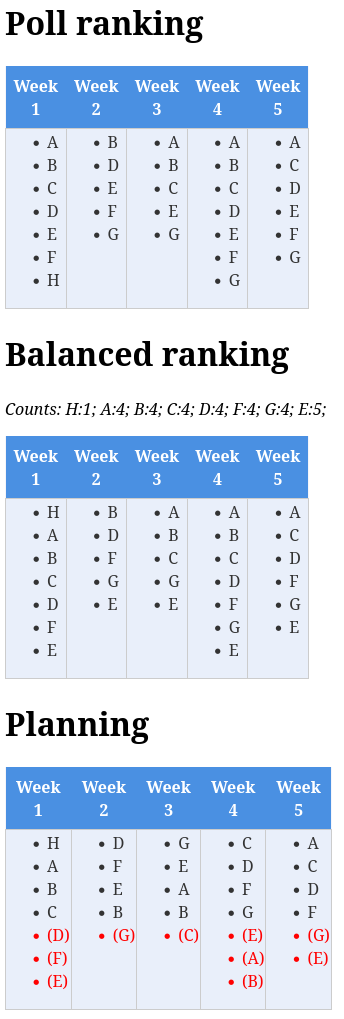
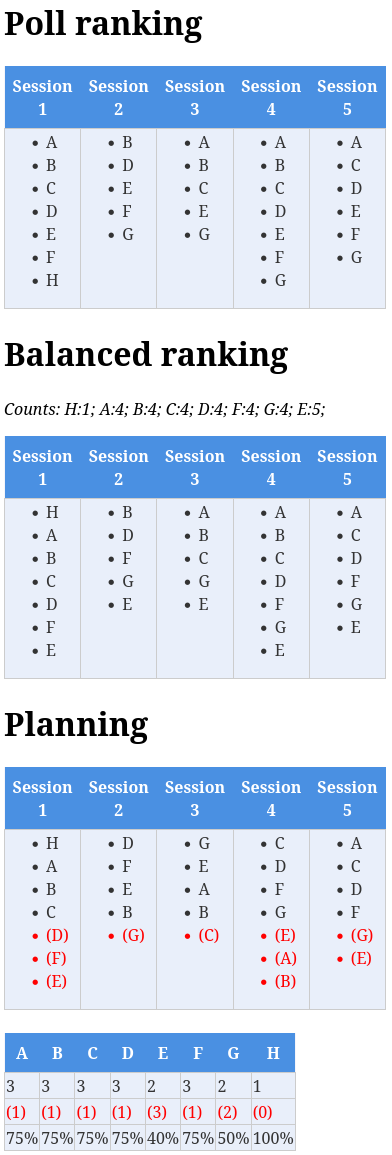
[Optimizer] Collect metrics to evaluate a planning proposal

diff --git a/files/out/planning.html b/files/out/planning.html
@@ -42,5 +42,42 @@
 <td><ul><li>G</li><li>E</li><li>A</li><li>B</li><li class="substitute">(C)</li></ul></td>
 <td><ul><li>C</li><li>D</li><li>F</li><li>G</li><li class="substitute">(E)</li><li class="substitute">(A)</li><li class="substitute">(B)</li></ul></td>
 <td><ul><li>A</li><li>C</li><li>D</li><li>F</li><li class="substitute">(G)</li><li class="substitute">(E)</li></ul></td>
-</tr></table></body>
+</tr></table><br><table><tr>
+<th>A</th>
+<th>B</th>
+<th>C</th>
+<th>D</th>
+<th>E</th>
+<th>F</th>
+<th>G</th>
+<th>H</th>
+</tr><tr>
+<td>3</td>
+<td>3</td>
+<td>3</td>
+<td>3</td>
+<td>2</td>
+<td>3</td>
+<td>2</td>
+<td>1</td>
+</tr><tr>
+<td class="substitute">(1)</td>
+<td class="substitute">(1)</td>
+<td class="substitute">(1)</td>
+<td class="substitute">(1)</td>
+<td class="substitute">(3)</td>
+<td class="substitute">(1)</td>
+<td class="substitute">(2)</td>
+<td class="substitute">(0)</td>
+</tr><tr>
+<td>75%</td>
+<td>75%</td>
+<td>75%</td>
+<td>75%</td>
+<td>40%</td>
+<td>75%</td>
+<td>50%</td>
+<td>100%</td>
+</tr></table>
+</body>
 </html>

diff --git a/app/src/main/java/org/llschall/padel/PlanningWriter.java b/app/src/main/java/org/llschall/padel/PlanningWriter.java
@@ -5,6 +5,7 @@ import java.io.StringWriter;
 import java.nio.file.Files;
 import java.nio.file.Path;
 import java.nio.file.Paths;
+import java.util.ArrayList;
 import java.util.List;
 
 public class PlanningWriter {
@@ -41,6 +42,31 @@ public class PlanningWriter {
 
         writer.append("<h1>Planning</h1>\n");
         writer.append(createHtml(optimized));
+
+        writer.append("<br>");
+        writer.append("<table><tr>\n");
+        Rater rater = new Rater(optimized);
+        ArrayList<Player> list = new ArrayList<>(rater.map.keySet());
+        for (Player player : list) {
+            writer.write("<th>" + player.name + "</th>\n");
+        }
+        writer.append("</tr><tr>\n");
+        for (Player player : list) {
+            Rating rating = rater.map.get(player);
+            writer.write("<td>" + rating.slot + "</td>\n");
+        }
+        writer.append("</tr><tr>\n");
+        for (Player player : list) {
+            Rating rating = rater.map.get(player);
+            writer.write("<td class=\"substitute\">(" + rating.substitute + ")</td>\n");
+        }
+        writer.append("</tr><tr>\n");
+        for (Player player : list) {
+            Rating rating = rater.map.get(player);
+            writer.write("<td>" + rating.getRating() + "%</td>\n");
+        }
+
+        writer.append("</tr></table>\n");
 
         writer.append("</body>\n");
         writer.append("</html>");

diff --git a/app/src/main/java/org/llschall/padel/Rater.java b/app/src/main/java/org/llschall/padel/Rater.java
@@ -1,0 +1,47 @@
+package org.llschall.padel;
+
+import java.util.HashMap;
+import java.util.List;
+import java.util.Map;
+
+class Rater {
+
+    final List<Session> sessions;
+    final Map<Player, Rating> map = new HashMap<>();
+
+    Rater(List<Session> sessions) {
+        this.sessions = sessions;
+
+        for (Session session : sessions) {
+            for (Slot slot : session.slots) {
+                Player player = slot.player;
+                if (!map.containsKey(player)) {
+                    map.put(player, new Rating());
+                }
+                Rating rating = map.get(player);
+                if (slot.isSubstitute) {
+                    rating.substitute++;
+                } else {
+                    rating.slot++;
+                }
+            }
+        }
+    }
+}
+
+class Rating {
+
+    int slot = 0;
+    int substitute = 0;
+
+    int getTotal() {
+        return slot + substitute;
+    }
+
+    int getRating() {
+        int total = getTotal();
+        if (total == 0) throw new PadelPlanException("Unexpected total rating of 0");
+        return 100 * slot / total;
+    }
+
+}

diff --git a/app/src/main/java/org/llschall/padel/Player.java b/app/src/main/java/org/llschall/padel/Player.java
@@ -1,10 +1,23 @@
 package org.llschall.padel;
 
+import java.util.Objects;
+
 public class Player {
 
     final String name;
 
     public Player(String name) {
         this.name = name;
+    }
+
+    @Override
+    public boolean equals(Object o) {
+        if (!(o instanceof Player player)) return false;
+        return Objects.equals(name, player.name);
+    }
+
+    @Override
+    public int hashCode() {
+        return Objects.hashCode(name);
     }
 }

diff --git a/app/src/main/java/org/llschall/padel/PadelPlanException.java b/app/src/main/java/org/llschall/padel/PadelPlanException.java
@@ -1,6 +1,10 @@
 package org.llschall.padel;
 
-public class PadelPlanException extends RuntimeException {
+class PadelPlanException extends RuntimeException {
+
+    PadelPlanException(String message) {
+        super(message);
+    }
 
     PadelPlanException(Exception cause) {
         super(cause);
